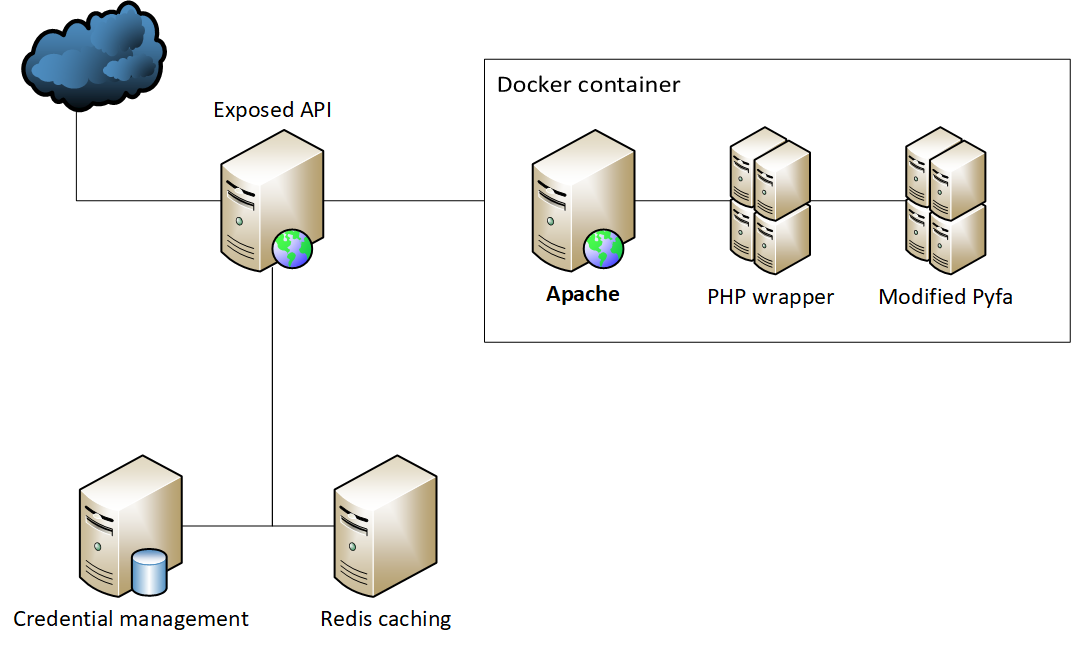
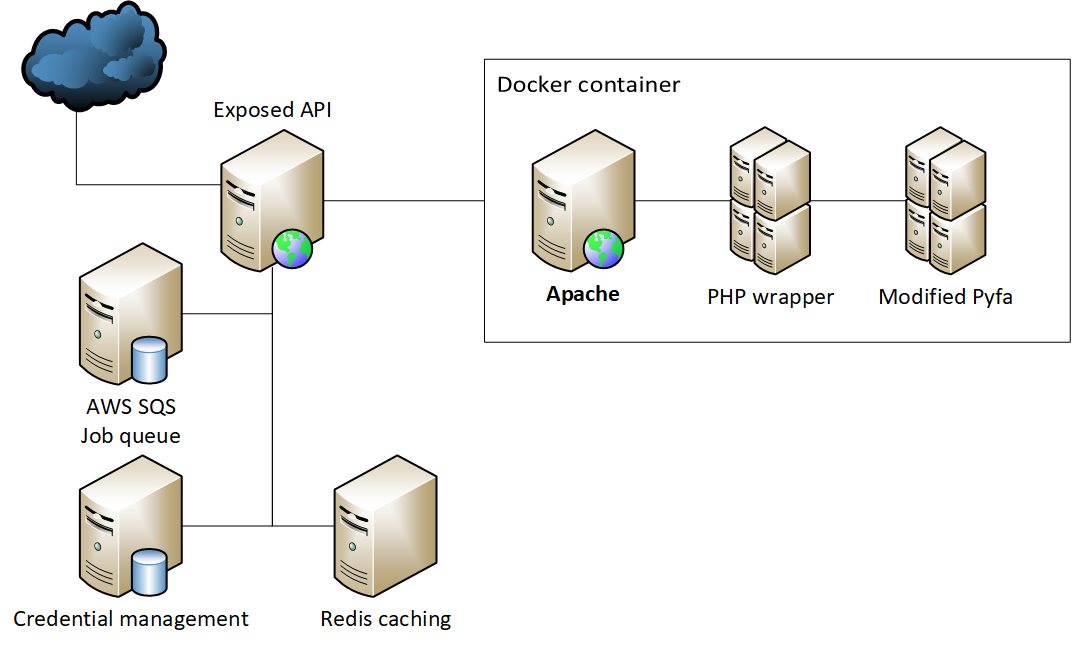
Updates architecture diagram

Changed region(s): [[0.0616, 0.3721, 0.1847, 0.7132], [0.0616, 0.2791, 0.0924, 0.3101]]

diff --git a/app/DTO/FitStatRequest.php b/app/DTO/FitStatRequest.php
@@ -1,0 +1,16 @@
+<?php
+
+    use Illuminate\Database\Eloquent\Model;
+
+    class FitStatRequest extends Model {
+
+        /** @var string */
+        public $eft;
+
+        /** @var int */
+        public $userId;
+
+        /** @var bool */
+        public $sync;
+
+    }

diff --git a/README.md b/README.md
@@ -16,7 +16,7 @@ The service exposes a REST webservice that is - for now - used internally.
 The service consists of an exposed API and its components (this project), and a modified Pyfa running in a docker container.
 
 ## API Service (this project)
-This service was built with Laravel and has a 
+This service was built with Laravel and handles communication, credentials check, and caching.
 
 ## Docker container
 <img src="https://img.icons8.com/dusk/64/000000/docker.png"/>
@@ -28,6 +28,8 @@ The worker that actually runs the Pyfa is in a container due to its numerous dep
 
 A fork of Pyfa was modified to accept a fit as a command line parameter and print its parameters. [Pyfa fork](https://github.com/molbal/Pyfa)
  
+## AWS Simple Queue Service
+We have two queues, one for the sync jobs, with priority, and one for the async jobs, with lower priority.
 
 # Endpoints
 All endpoints are secured by tokens and we only support HTTPS.
